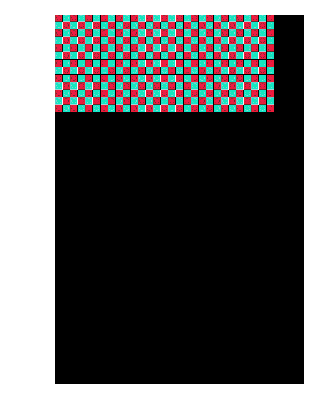
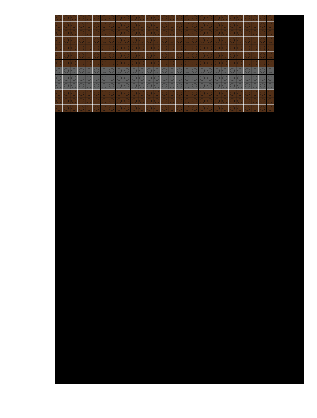
adding all the brick .pngs

Changed region(s): [[0.1703, 0.0311, 0.8801, 0.2799]]

diff --git a/Code/brick_color_analysis.py b/Code/brick_color_analysis.py
@@ -5,7 +5,7 @@ a dictionary, and print the dictionary.
 Author: Kerry McConnaughay
 
 """
-import cv2
+# import cv2
 import PIL.Image as Image
 import numpy as np
 import os
